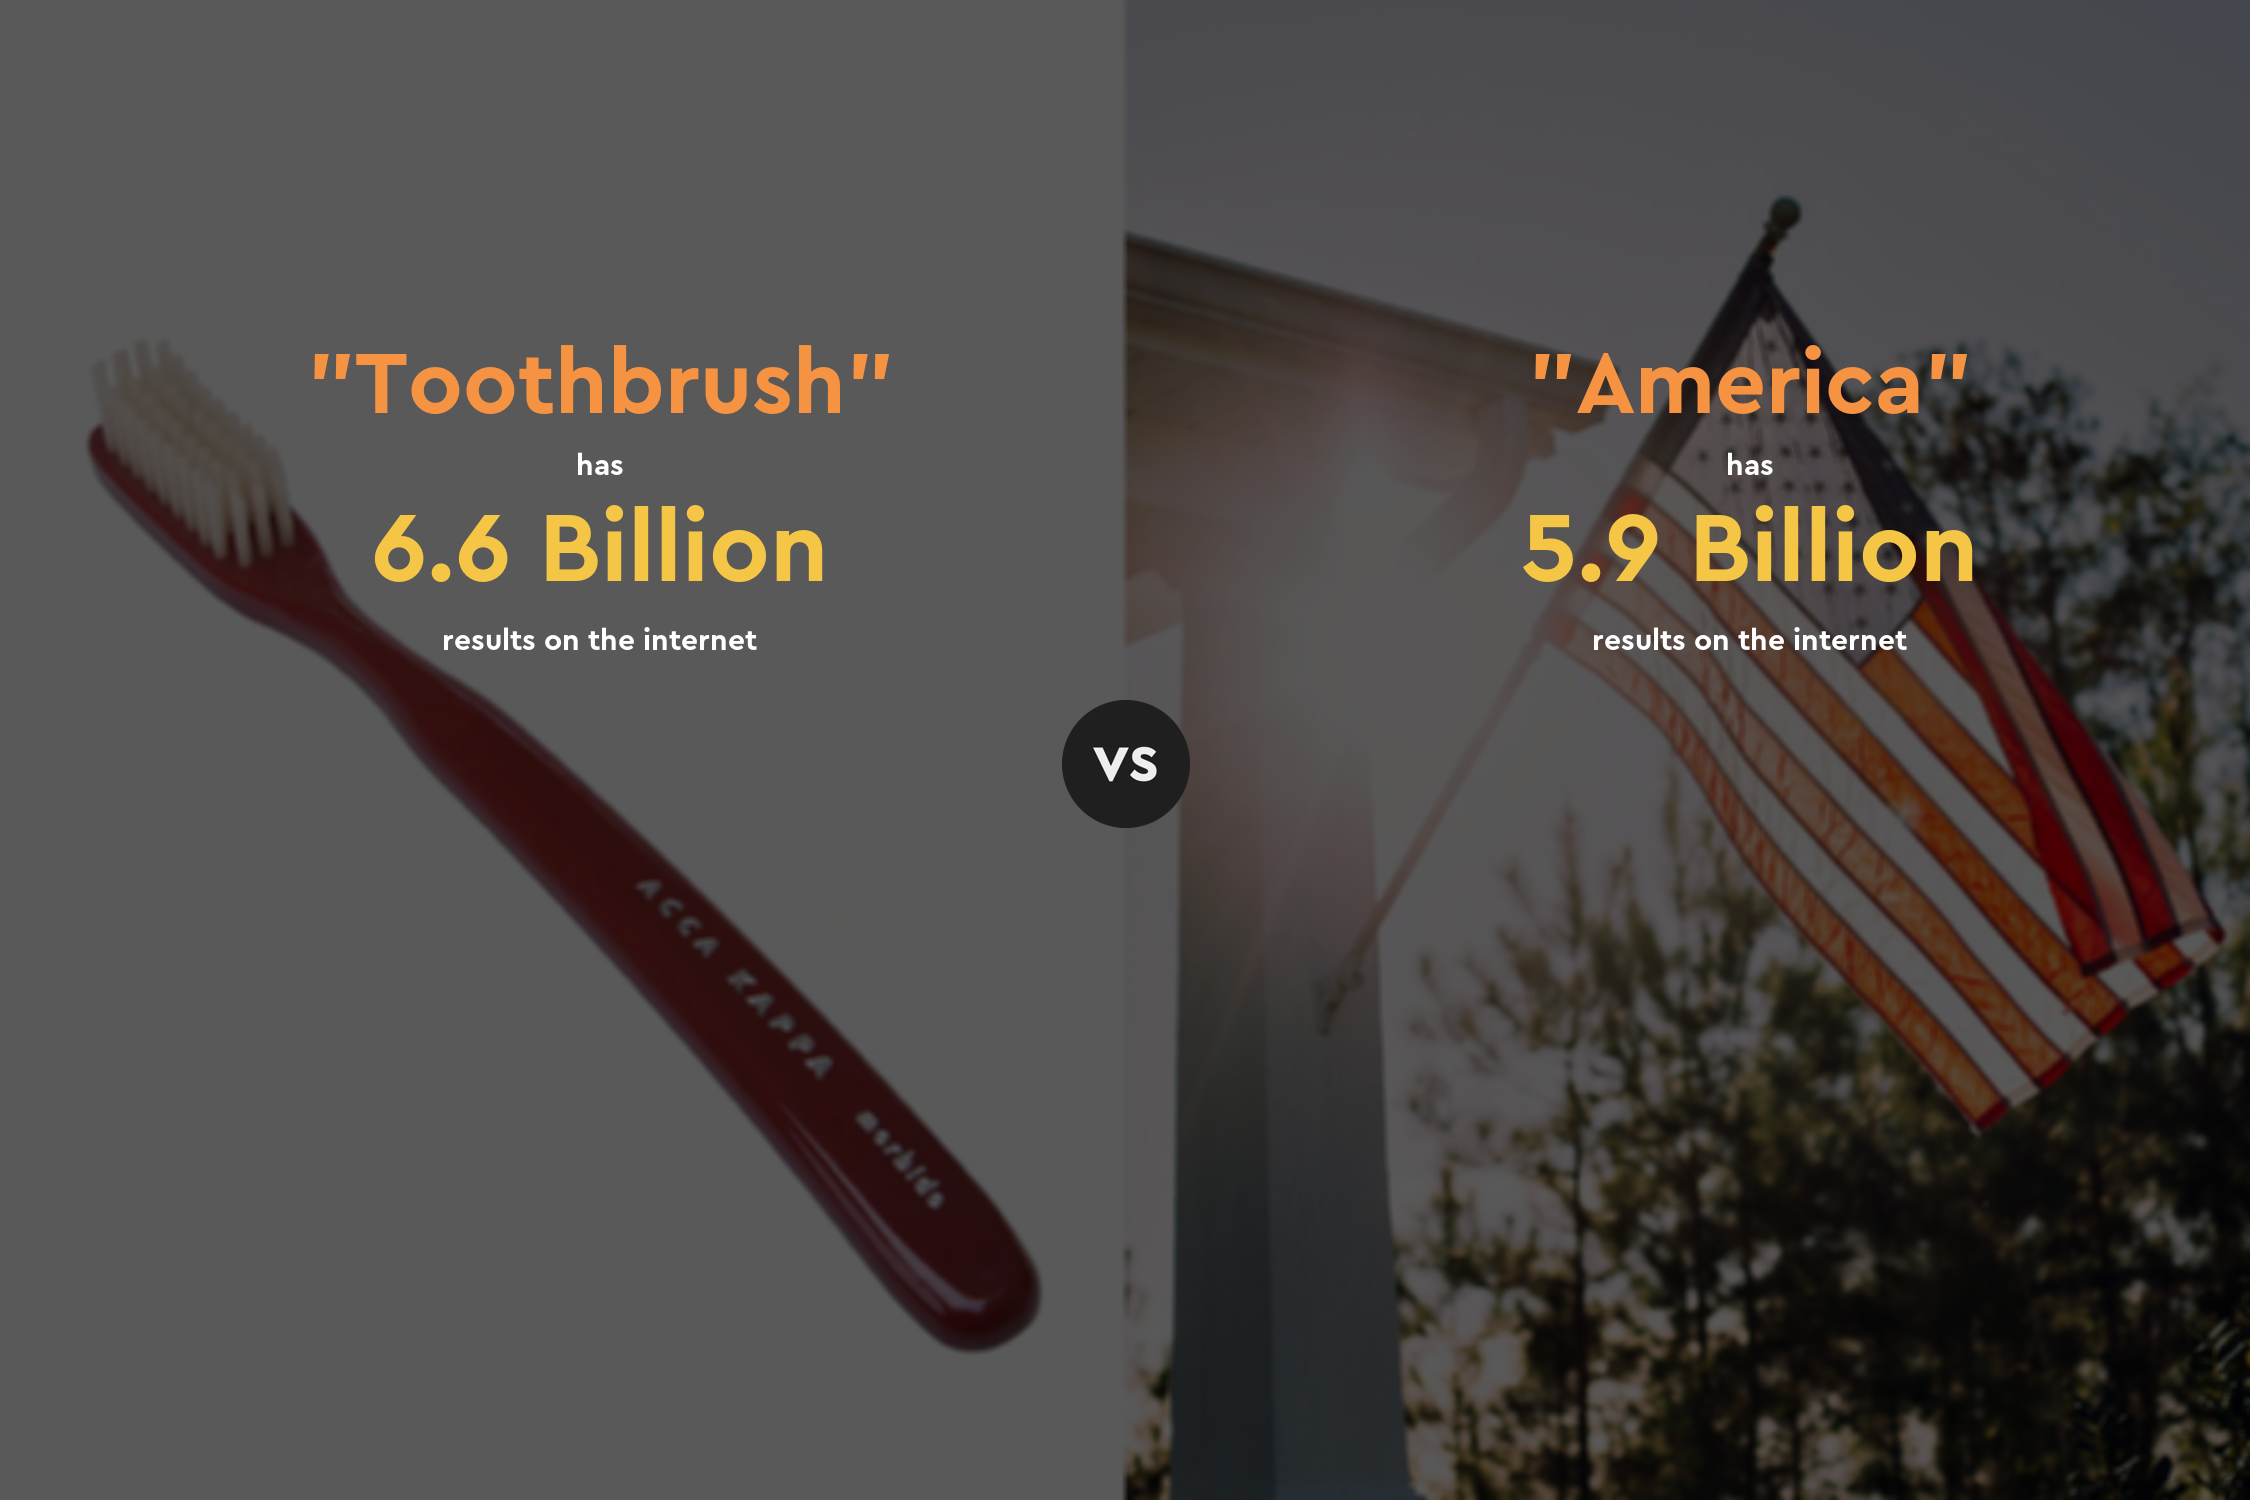
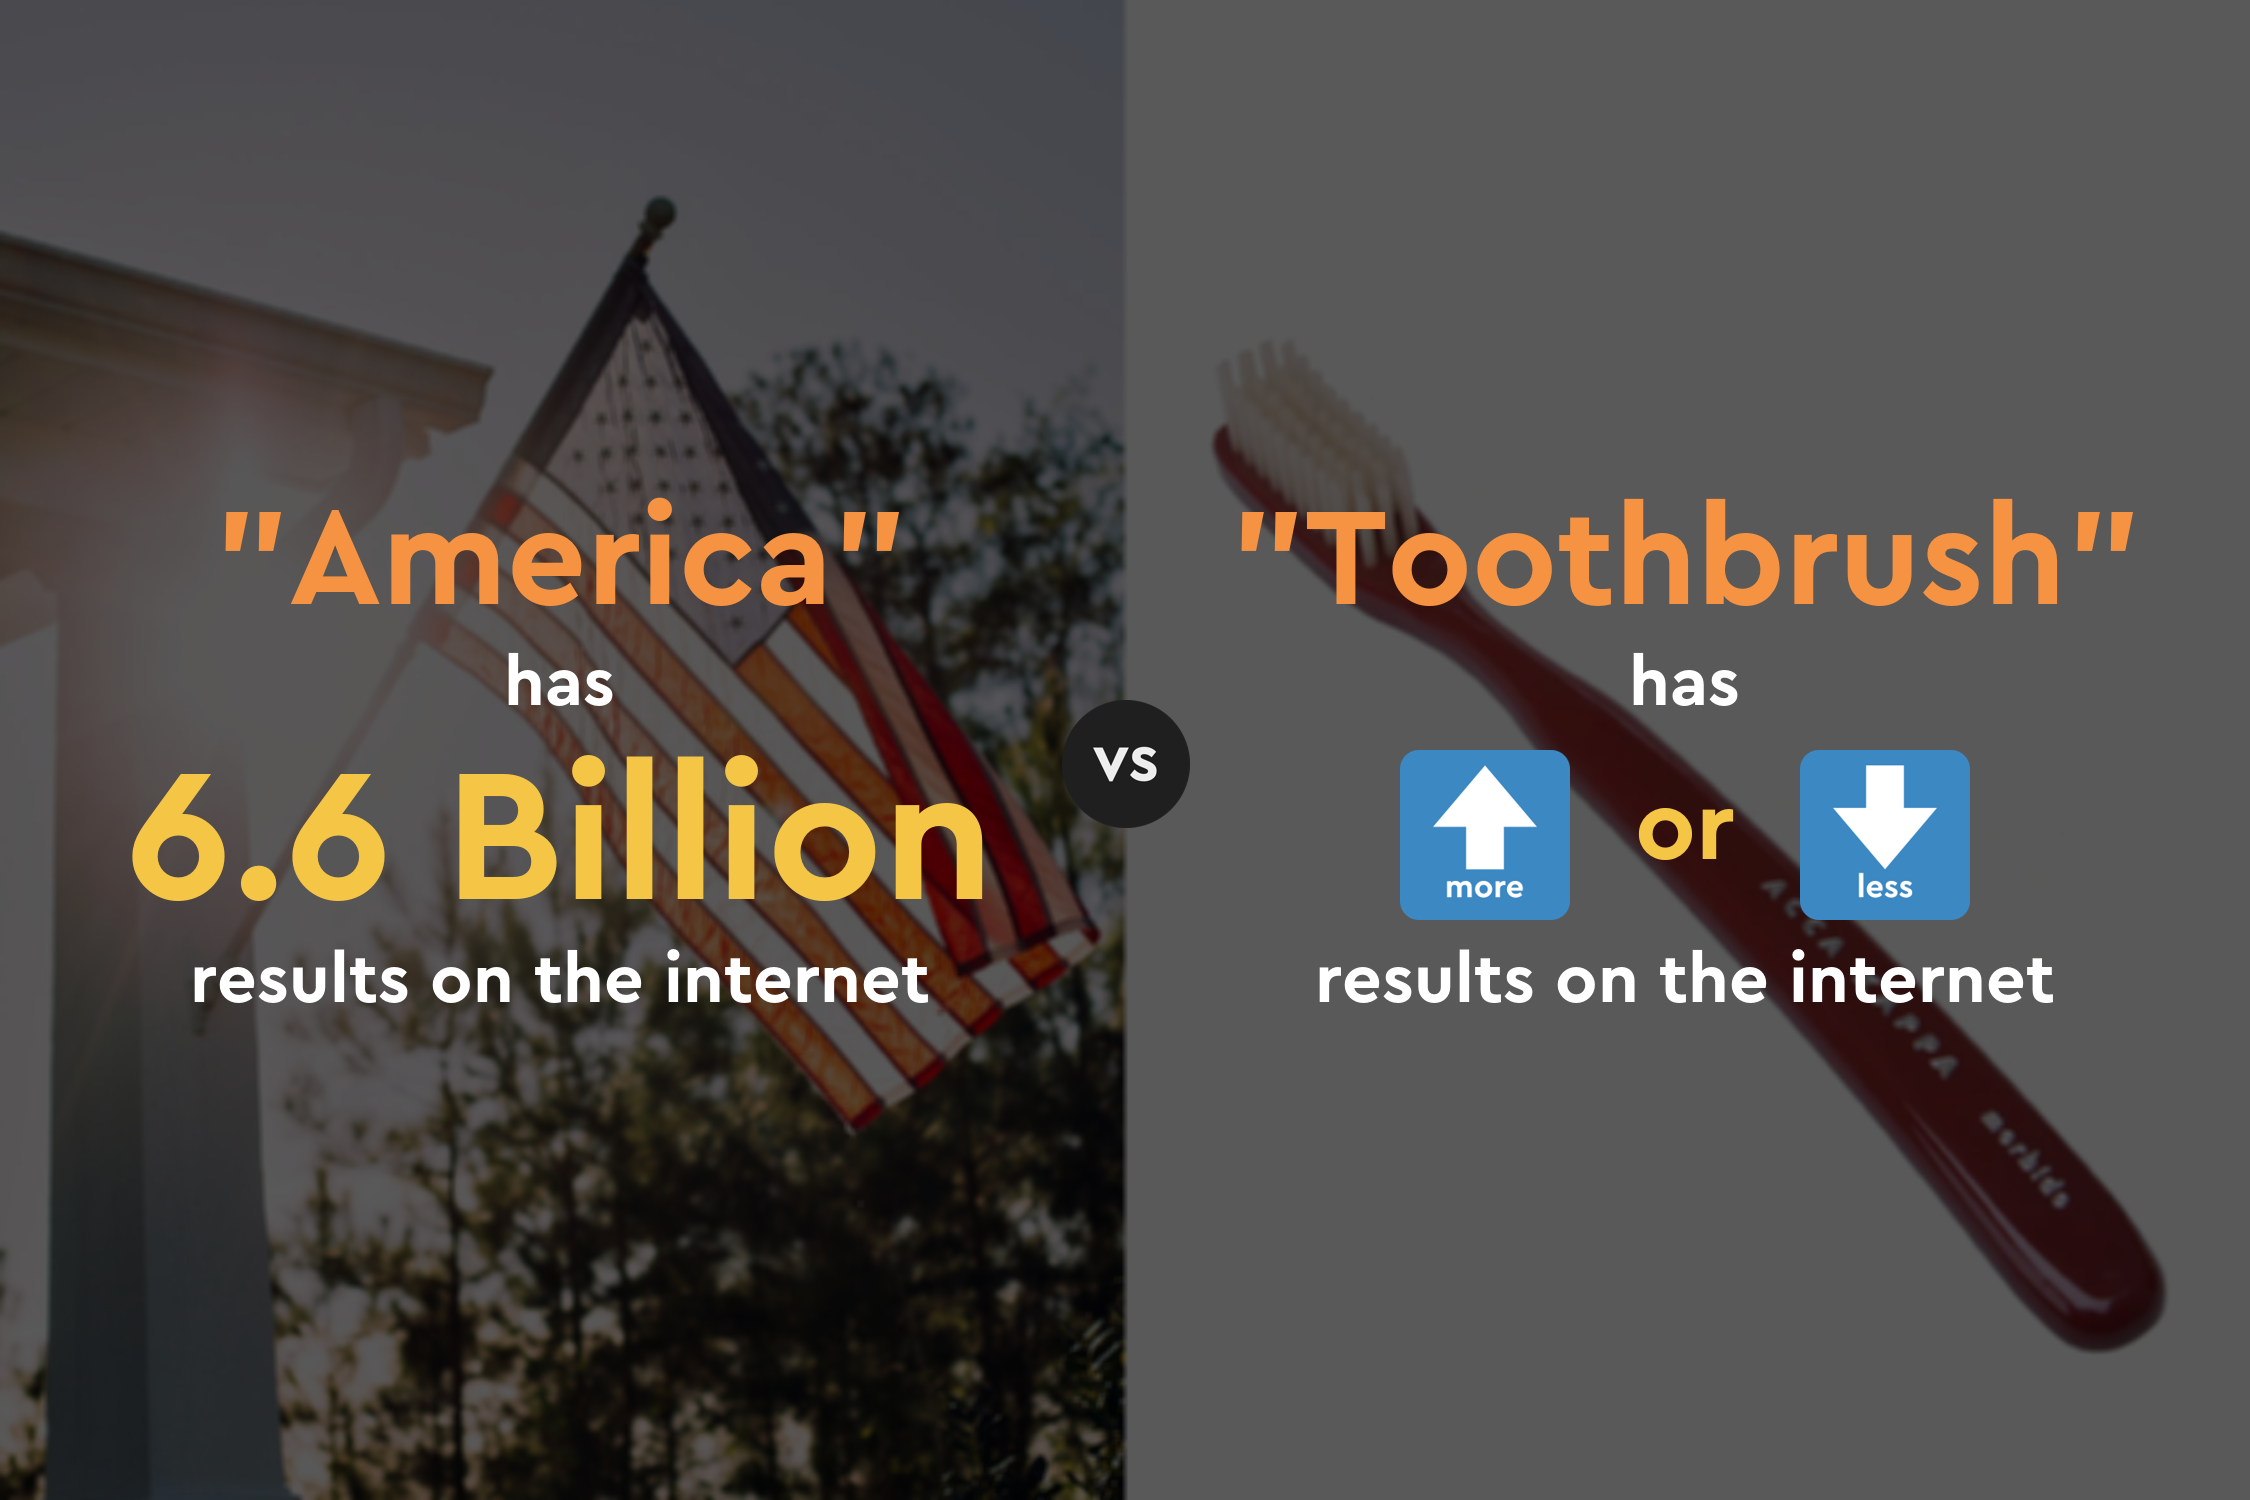
funny arrows

diff --git a/concatenate.py b/concatenate.py
@@ -4,8 +4,8 @@ from PIL import ImageDraw
 from pathlib import Path
 
 # Define images and names
-path1 = 'images/Toothbrush.png'
-path2 = 'images/America.png'
+path1 = 'images/America.png'
+path2 = 'images/Toothbrush.png'
 im1 = Image.open(path1)
 im2 = Image.open(path2)
 im1_name = str(Path(path1).stem)
@@ -25,26 +25,42 @@ dst = dst.filter(ImageFilter.BoxBlur(3))
 
 # Add text
 draw = ImageDraw.Draw(dst)
-top_font = ImageFont.truetype("data/cera.otf", 90)
-small_font = ImageFont.truetype("data/cera.otf", 30)
-main_font = ImageFont.truetype("data/cera.otf", 100)
+top_font = ImageFont.truetype("data/cera.otf", 140)
+small_font = ImageFont.truetype("data/cera.otf", 70)
+main_font = ImageFont.truetype("data/cera.otf", 190)
+or_font = ImageFont.truetype("data/cera.otf", 100)
 
-im1_width = 600
-im2_width = 1750
+im1_width = 560.2
+im2_width = 1685.2
 
-draw.text((im1_width, 770/2),f'"{im1_name}"',(245,147,66),font=top_font,anchor="mm")
-draw.text((im2_width, 770/2),f'"{im2_name}"',(245,147,66),font=top_font,anchor="mm")
-draw.text((im1_width, 930/2),'has',(255,255,255),font=small_font,anchor="mm")
-draw.text((im2_width, 930/2),'has',(255,255,255),font=small_font,anchor="mm")
-draw.text((im1_width, 1100/2),im1_results,(245,198,69),font=main_font,anchor="mm")
-draw.text((im2_width, 1100/2),im2_results,(245,198,69),font=main_font,anchor="mm")
-draw.text((im1_width, 1280/2),'results on the internet',(255,255,255),font=small_font,anchor="mm")
-draw.text((im2_width, 1280/2),'results on the internet',(255,255,255),font=small_font,anchor="mm")
+im1_height = 560
+im2_height = 560
+
+# Results text
+draw.text((im1_width, im1_height),f'"{im1_name}"',(245,147,66),font=top_font,anchor="mm")
+draw.text((im2_width, im2_height),f'"{im2_name}"',(245,147,66),font=top_font,anchor="mm")
+draw.text((im1_width, im1_height*1.22),'has',(255,255,255),font=small_font,anchor="mm")
+draw.text((im2_width, im2_height*1.22),'has',(255,255,255),font=small_font,anchor="mm")
+draw.text((im1_width, im1_height*1.5),im1_results,(245,198,69),font=main_font,anchor="mm")
+#draw.text((im2_width, im2_height*1.5),im2_results,(245,198,69),font=main_font,anchor="mm")
+draw.text((im1_width, im1_height*1.75),'results on the internet',(255,255,255),font=small_font,anchor="mm")
+draw.text((im2_width, im2_height*1.75),'results on the internet',(255,255,255),font=small_font,anchor="mm")
+draw.text((im2_width, im2_height*1.48),'or',(245,198,69),font=or_font,anchor="mm")
 
 # Add VS
 vs = Image.open('data/vs.png').convert("RGBA")
 vs = vs.resize((128, 128))
 dst.paste(vs, (1062,700), mask = vs)
+
+# Add arrows
+up = Image.open('data/up_arrow.png').convert("RGBA")
+down = Image.open('data/down_arrow.png').convert("RGBA")
+up = up.resize((170, 170))
+down = down.resize((170, 170))
+dst.paste(up, (1400,750), mask = up)
+dst.paste(down, (1800,750), mask = down)
+
+
 
 dst.show()
 dst.save('out.png')
